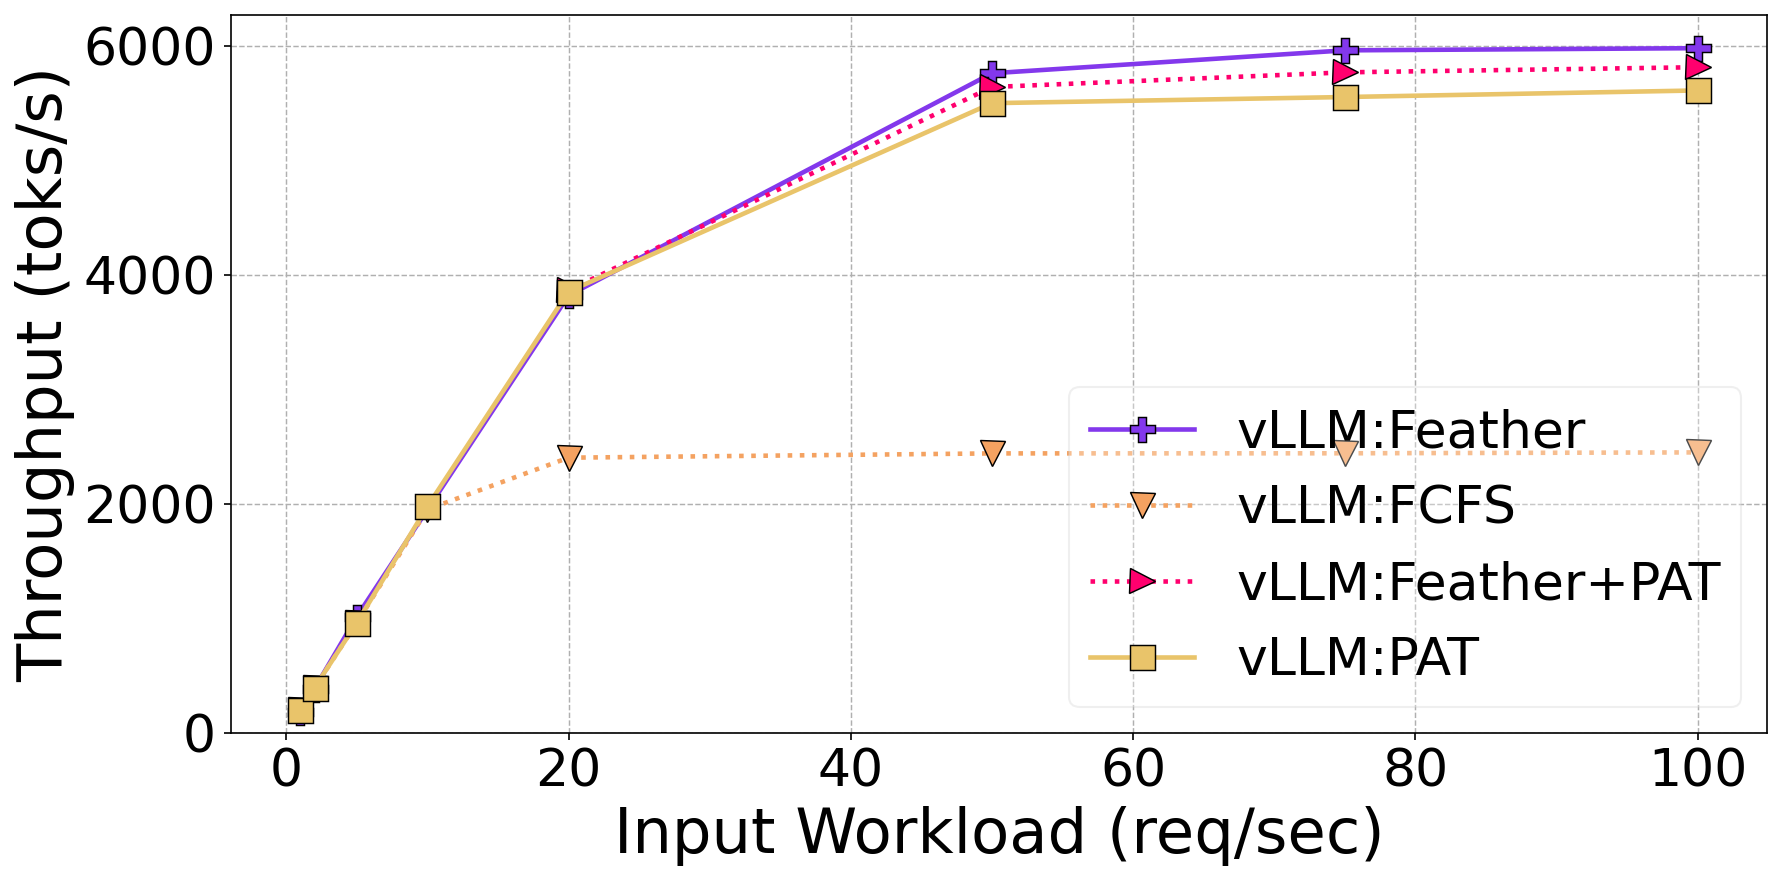
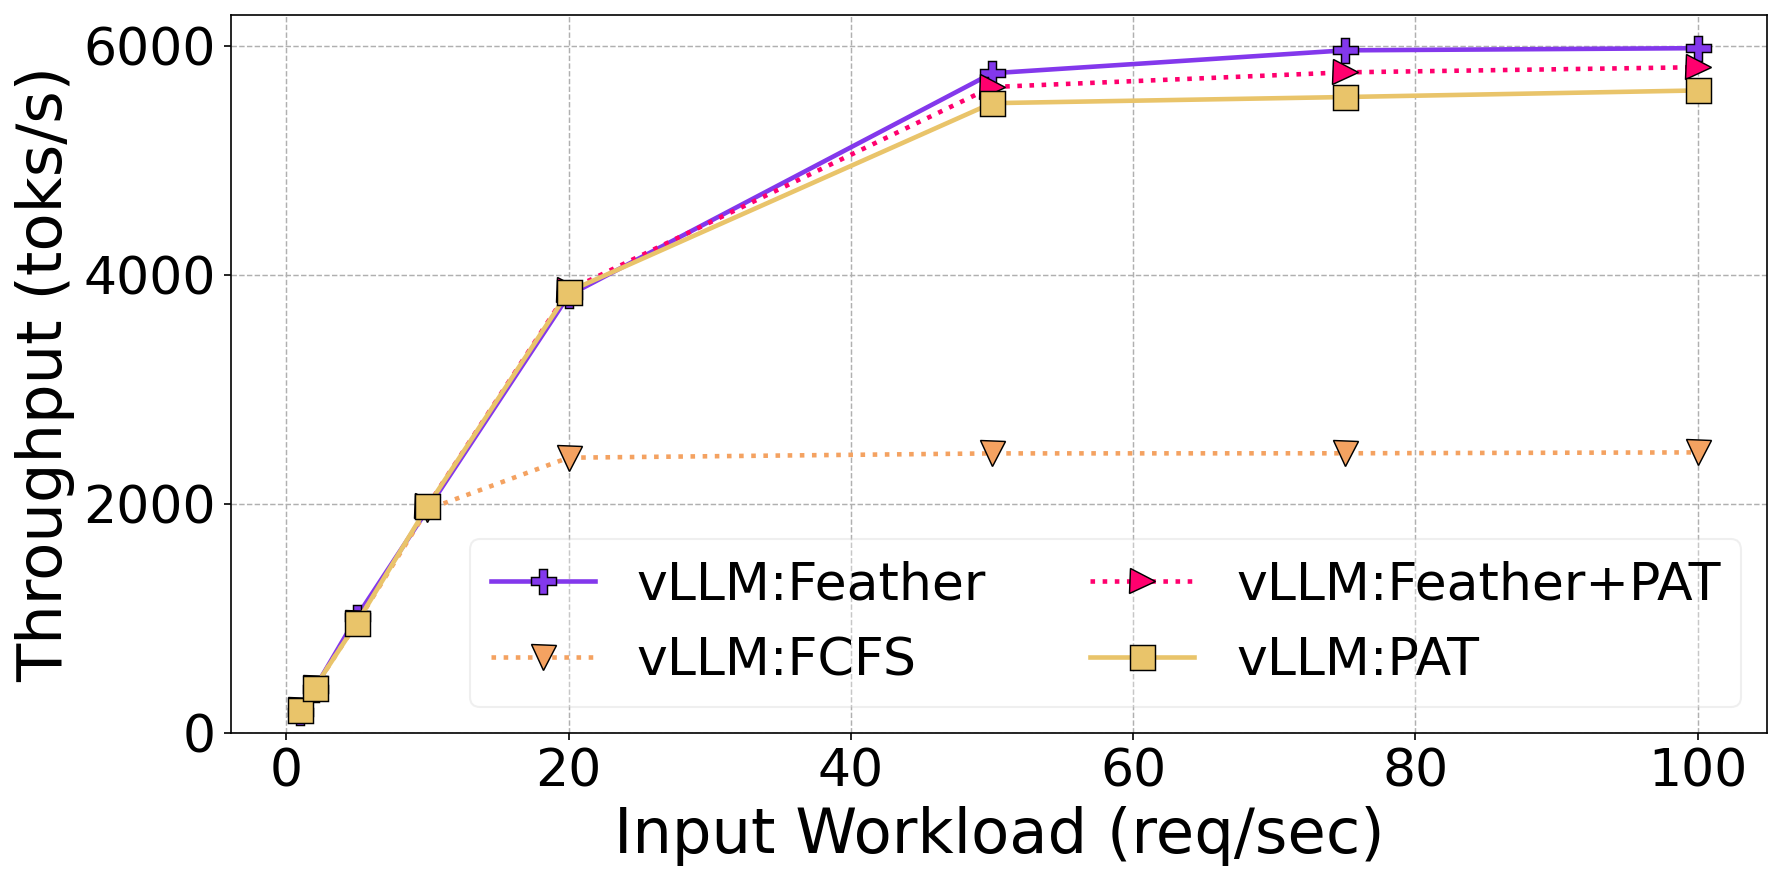
updated PAT plots

diff --git a/code/vllm/pat_logs/plot.py b/code/vllm/pat_logs/plot.py
@@ -152,7 +152,7 @@ ax.set_xlabel("Input Workload (req/sec)", fontsize=30)
 ax.set_ylabel("Throughput (toks/s)", fontsize=30)
 ax.tick_params(axis="both", labelsize=25)
 ax.yaxis.set_major_formatter(ticker.FormatStrFormatter('%.0f'))
-ax.legend(fontsize=25, framealpha=0.3, loc="lower right")
+ax.legend(fontsize=25, framealpha=0.3, loc="lower right", ncol=2)
 ax.grid(True, linewidth=0.7, linestyle="--")
 ax.set_ylim(bottom=0)
 plt.tight_layout()
